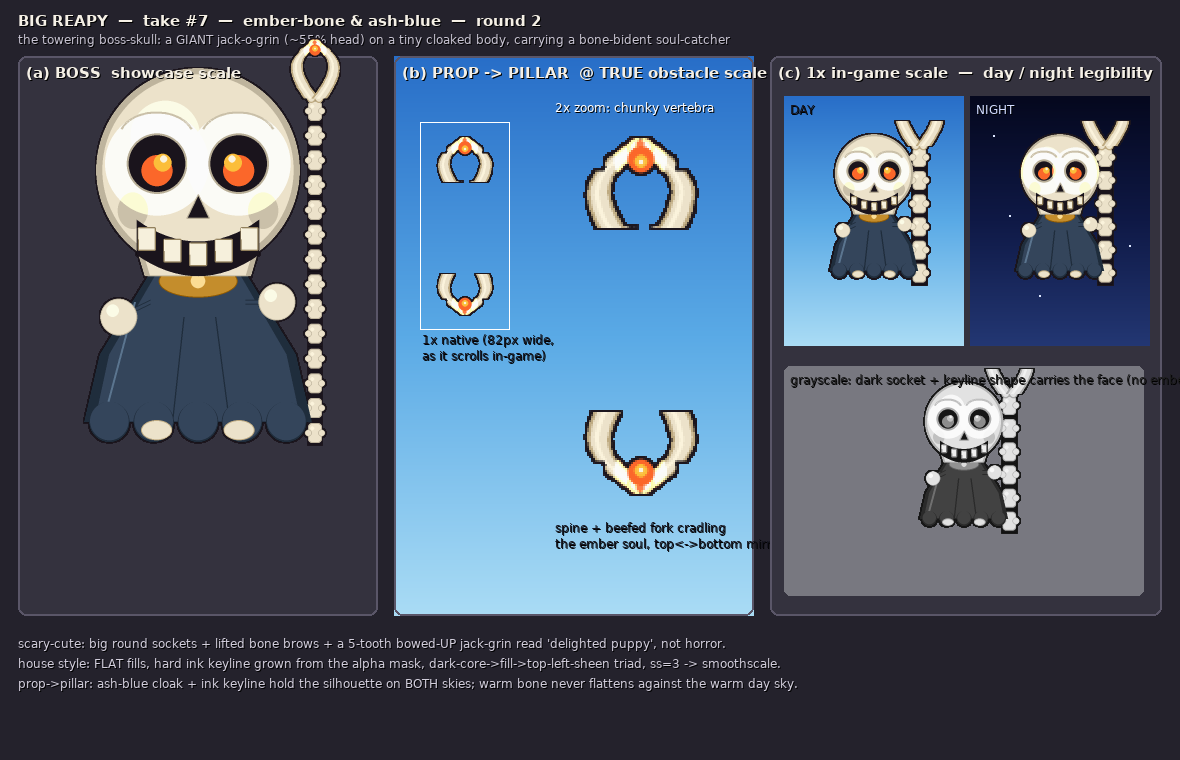
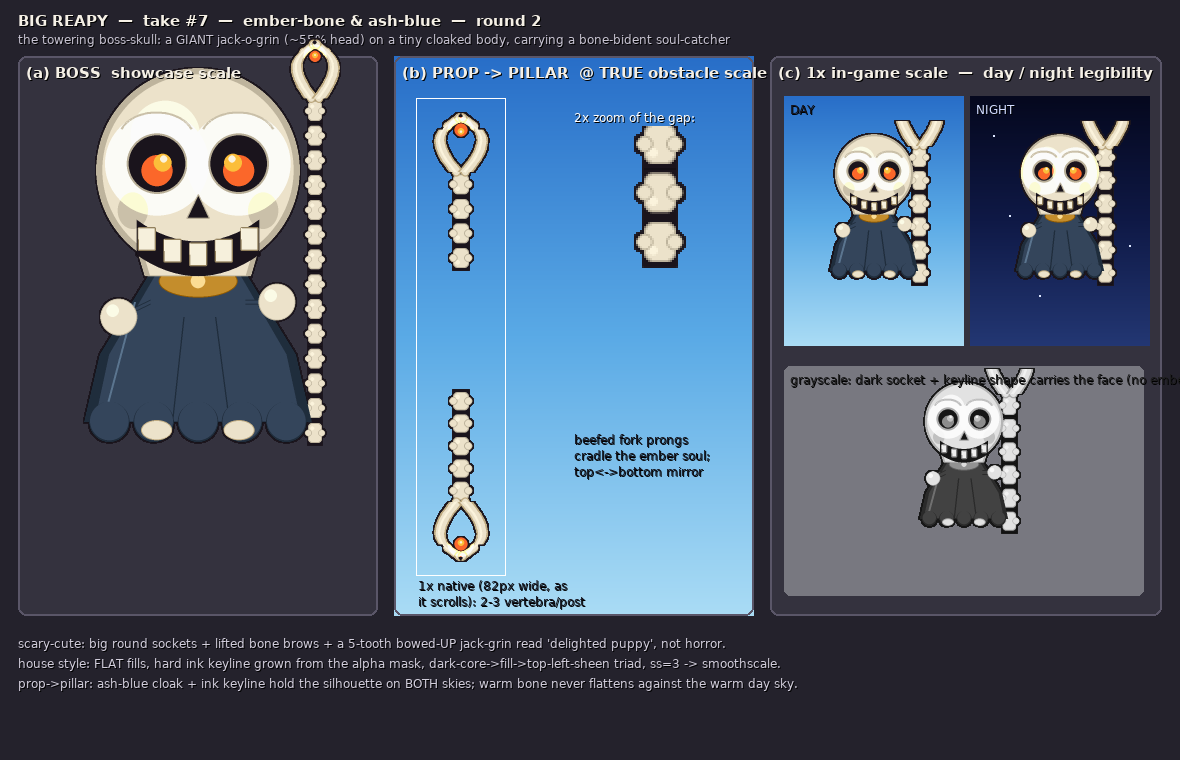
skybit-reaper: big-reapy + the-hollow round 2 sheets; dr-quill SHIP-READY r2 critique

diff --git a/tools/render_skybit_reaper_tick_tock.py b/tools/render_skybit_reaper_tick_tock.py
@@ -39,8 +39,10 @@ HOOD_FACE = (244, 236, 214)   # bone-cream skull-pale
 FRAME = (200, 144, 46)        # brass hourglass frame
 FRAME_DK = (140, 96, 26)
 FRAME_HI = (255, 228, 154)
-SAND = (255, 194, 61)         # amber sand
-SAND_HI = (255, 228, 154)
+# Amber sand pulled down a notch (was 255,194,61 / 255,228,154) so the hourglass
+# stops being the single brightest mass and the skull-pale FACE leads the read.
+SAND = (236, 170, 48)         # amber sand (deeper, less near-white-yellow)
+SAND_HI = (250, 206, 120)
 SASH = (214, 62, 90)          # rose sash
 SASH_DK = (150, 38, 60)
 GLASS = (180, 224, 232)       # faint cold glass tint
@@ -123,9 +125,11 @@ def _hourglass(surf, cx, cy, half_w, half_h, ss, *, sand_t=0.5, glow=True):
                          max(1, int(1.2 * ss)))
 
     # The thin falling-sand thread through the neck (the live beat), with a soft
-    # amber glow so it reads as luminous trickling time.
+    # amber glow so it reads as luminous trickling time. Glow pulled DOWN one more
+    # notch (was 66) so the bright amber mass stops out-shouting the FACE at 1x —
+    # the head is the focal point, the glass the supporting beat.
     if glow:
-        blit_glow(surf, int(cx), int(cy), max(3, int(half_w * 0.5)), SAND, alpha=66)
+        blit_glow(surf, int(cx), int(cy), max(3, int(half_w * 0.42)), SAND, alpha=40)
     pygame.draw.line(surf, SAND_HI, (int(cx), int(cy - half_h * 0.18)),
                      (int(cx), int(cy + half_h * 0.5)), max(1, int(1.4 * ss)))
 
@@ -184,37 +188,44 @@ def _smug_face(surf, cx, cy, hw, ss, *, look=-1):
         pr = max(1, int(hw * 0.10))
         pygame.draw.circle(surf, INK,
                            (int(exx + look * hw * 0.14), int(ey + hw * 0.02)), pr)
-        # The half-lid: a thick ink bar arcing across the top third of the eye.
+        # The half-lid: a STEEPER, heavier ink bar dragged further DOWN over the eye
+        # so only a knowing sliver survives — the menace lives in the lid, not the
+        # palette. Pushed down ~1px (ey-0.20 -> ey-0.14) and thickened (2.2 -> 2.8ss)
+        # so the slit reads as smug DEATH, not a neutral open eye, even at the 1x inset.
         pygame.draw.arc(surf, INK,
-                        (int(exx - hw * 0.34), int(ey - hw * 0.26),
+                        (int(exx - hw * 0.34), int(ey - hw * 0.14),
                          int(hw * 0.68), int(hw * 0.42)),
-                        math.pi * 0.05, math.pi * 0.95, max(2, int(2.2 * ss)))
-        # ONE arched eyebrow-ridge above — inner-low, outer raised: the "oh-really"
-        # arch that reads patient-condescending, never an angry inner-down V.
-        inner = (exx - s * hw * 0.10, ey - hw * 0.34)
-        mid = (exx + s * hw * 0.22, ey - hw * 0.46)
-        outer = (exx + s * hw * 0.42, ey - hw * 0.36)
-        pygame.draw.lines(surf, _shade_c(HOOD_FACE, -70), False,
+                        math.pi * 0.02, math.pi * 0.98, max(3, int(2.8 * ss)))
+        # ONE arched eyebrow-ridge above — inner-LOW, outer raised: the "oh-really"
+        # arch that reads patient-condescending. Inner end dragged down + closer to
+        # the lid so the brow/lid pinch reads as a steeper knowing squint, not a
+        # pleasant open arch.
+        inner = (exx - s * hw * 0.12, ey - hw * 0.28)
+        mid = (exx + s * hw * 0.20, ey - hw * 0.46)
+        outer = (exx + s * hw * 0.44, ey - hw * 0.38)
+        pygame.draw.lines(surf, _shade_c(HOOD_FACE, -78), False,
                           [(int(inner[0]), int(inner[1])), (int(mid[0]), int(mid[1])),
-                           (int(outer[0]), int(outer[1]))], max(2, int(1.8 * ss)))
+                           (int(outer[0]), int(outer[1]))], max(2, int(2.0 * ss)))
     # (No nose-bridge tick — it reads as noise at the 1x inset; the half-lids +
     #  smirk carry the smug clerk on their own.)
-    # The SMUG closed mouth: a flat line with the gaze-side corner cocked UP into a
-    # tiny dimple — the patient smirk. No teeth, no grimace.
+    # The SMUG closed mouth: a flat line with the gaze-side corner cocked sharply UP
+    # into a deepened dimple — the patient smirk. No teeth, no grimace. The cocked
+    # corner is pushed harder (0.10 -> 0.16 lift) so the asymmetry is unmistakably a
+    # knowing smirk, not a neutral smile, and survives the 1x shrink.
     my = cy + hw * 0.56
     mouth = []
     for k in range(11):
         t = k / 10.0
-        mx = cx - hw * 0.42 + hw * 0.84 * t
-        # Raise the left (gaze) corner; sag the right slightly for the lopsided read.
-        droop = (t - 0.5)
-        myy = my - hw * 0.10 * (1.0 - t) + hw * 0.06 * t
+        mx = cx - hw * 0.44 + hw * 0.86 * t
+        # Hard lift on the left (gaze) corner; let the right droop for the lopsided read.
+        myy = my - hw * 0.16 * (1.0 - t) ** 1.4 + hw * 0.07 * t
         mouth.append((int(mx), int(myy)))
-    pygame.draw.lines(surf, _shade_c(SASH, -30), False, mouth, max(2, int(2.0 * ss)))
-    # Dimple tick seating the raised corner so the asymmetry survives shrinking.
-    pygame.draw.line(surf, _shade_c(HOOD_FACE, -60),
-                     (int(cx - hw * 0.42), int(my - hw * 0.10)),
-                     (int(cx - hw * 0.50), int(my - hw * 0.24)), max(1, int(1.4 * ss)))
+    pygame.draw.lines(surf, _shade_c(SASH, -34), False, mouth, max(2, int(2.2 * ss)))
+    # Deepened dimple tick seating the raised corner so the cocked smirk survives
+    # shrinking — the gaze-side fold that sells the smug, clock-running-out read.
+    pygame.draw.line(surf, _shade_c(HOOD_FACE, -64),
+                     (int(cx - hw * 0.44), int(my - hw * 0.16)),
+                     (int(cx - hw * 0.54), int(my - hw * 0.34)), max(2, int(1.6 * ss)))
 
 
 def draw_tick_tock(surf, cx, feet_y, scale=1.0, ss=2):
@@ -295,9 +306,13 @@ def draw_tick_tock(surf, cx, feet_y, scale=1.0, ss=2):
     # Cradling arm (his right; viewer-right) — one CONTINUOUS sleeve springing from
     # the shoulder seam and sweeping out to clasp the pole (no detached floating
     # slab). Top edge starts at the shoulder; bottom edge curves under to the mitt.
+    # Inner edge runs as a smooth convex sweep from deep inside the shoulder mass
+    # out to the forearm — the prior inner-anchor notch cut a flat dark facet that
+    # read as a stuck-on tab at the elbow, so it is removed and the underside now
+    # springs cleanly from the shoulder.
     cradle = [(cx + sh_hw - U(2), shoulder_y + U(1)),       # shoulder seam (top)
-              (cx + sh_hw * 0.5, shoulder_y + U(7)),         # inner shoulder anchor
-              (cx + sh_hw * 0.7, shoulder_y + U(26)),        # inner underside
+              (cx + sh_hw * 0.78, shoulder_y + U(14)),       # inner shoulder (eased in)
+              (cx + sh_hw * 0.96, shoulder_y + U(30)),       # smooth elbow underside
               (staff_x - U(12), pole_top + U(50)),           # underside reaching pole
               (staff_x - U(1), pole_top + U(46)),            # at the pole (forearm)
               (staff_x - U(3), pole_top + U(36)),            # top of forearm
@@ -402,10 +417,12 @@ def draw_hourglass_pillar(surf, cx, gap_edge, far_edge, w, ss, *, flip):
 
     # The hourglass CAP at the gap edge — the silhouette bulge that owns the
     # gameplay read. Sand drains toward the gap so the live falling-sand reads. The
-    # half-width:half-height ratio is locked to the boss's staff glass (0.75) so the
-    # "one literal shape" prop->pillar mirror reads identical at a glance.
-    hg_hh = min(span * 0.32, 30 * ss)
-    hg_hw = hg_hh * 0.75
+    # glass half-WIDTH and the half-width:half-height ratio (0.75) are locked to the
+    # boss's staff glass so the "one literal shape" prop->pillar mirror reads
+    # IDENTICAL at a glance — the pier glass had been reading marginally wide, so the
+    # absolute half-width is now pinned to the boss value (25.5*ss at boss scale 1.7).
+    hg_hw = min(span * 0.32 * 0.75, 25.5 * ss)
+    hg_hh = hg_hw / 0.75
     hg_cy = gap_edge + sign * (hg_hh + 6 * ss)
     _hourglass(surf, cx, hg_cy, hg_hw, hg_hh, ss, sand_t=0.5)
 
@@ -475,7 +492,10 @@ def main():
     gap_top = int(th * 0.40)
     gap_bot = int(th * 0.60)
     col_x = tw // 2
-    post_w = max(4, int(7 * ss))
+    # Pole width pinned to the BOSS staff pole (U(3.2) at boss scale 1.7 = 5.44*ss,
+    # so half-width 5.44 -> full ~10.9*ss) so the pole:glass proportion matches the
+    # staff and the pier stops reading as a fat post under a small glass.
+    post_w = max(4, int(10.9 * ss))
     big_p = pygame.Surface((tw * ss, th * ss), pygame.SRCALPHA)
     # Top pier: hangs from the ceiling, hourglass eye flourishes DOWN into the gap.
     draw_hourglass_pillar(big_p, col_x * ss, gap_top * ss, 4 * ss, post_w, ss, flip=True)

diff --git a/tools/render_skybit_reaper_big_reapy.py b/tools/render_skybit_reaper_big_reapy.py
@@ -384,7 +384,7 @@ def _bone_fork(surf, cx, base_y, hw, ss, *, point_up=True):
     # prong tips (not low on the shaft). Tight, bright halo + a hot inner core so it
     # reads as one discrete glowing caught soul, not a smear of bone-bleed.
     tip_y = (tips[0][1] + tips[1][1]) * 0.5
-    wy = tip_y - d * prong_len * 0.10            # nestled just inside the tips
+    wy = tip_y - d * prong_len * 0.22            # nestled down inside the cradle
     soul_r = hw * 0.85
     glow = make_glow_surface(int(soul_r * 2.0), EMBER, alpha_center=230, falloff=2.4)
     surf.blit(glow, (int(cx - soul_r * 2.0 - 1), int(wy - soul_r * 2.0 - 1)),
@@ -516,13 +516,15 @@ def main():
     _label(sheet, font, "(b) PROP -> PILLAR  @ TRUE obstacle scale", panelB.x + 8, panelB.y + 8)
 
     pw = PIPE_W + 2 * OVERHANG                  # 82px — the real obstacle width
-    # True 1x gameplay slice: a 200px-tall window of the 640-tall canvas with a
-    # realistic ~150px gap, pillars at native pixel size.
-    slice_h = 200
-    slice_x = panelB.x + 30
-    slice_y = panelB.y + 70
-    gap_top = 56
-    gap_h = 92
+    # True 1x gameplay slice: a tall window of the 640-tall canvas with a realistic
+    # gap, pillars at native pixel size. The pillars are LONG enough that 2-3
+    # vertebra segments stack across each post — the spine read must survive at this
+    # exact size, not just in the zoom.
+    slice_h = 470
+    slice_x = panelB.x + 26
+    slice_y = panelB.y + 46
+    gap_top = 168
+    gap_h = 120
     top_h = gap_top
     bot_h = slice_h - gap_top - gap_h
     top_pillar = _bident_pillar_obstacle(top_h, 3, flip=True)
@@ -530,20 +532,23 @@ def main():
     sheet.blit(top_pillar, (slice_x - 2, slice_y - 2))
     sheet.blit(bot_pillar, (slice_x - 2, slice_y + gap_top + gap_h - 2))
     pygame.draw.rect(sheet, (255, 255, 255), (slice_x - 4, slice_y - 4, pw + 8, slice_h + 8), 1)
-    _label(sheet, small, "1x native (82px wide,", slice_x - 2, slice_y + slice_h + 6, (20, 20, 30))
-    _label(sheet, small, "as it scrolls in-game)", slice_x - 2, slice_y + slice_h + 22, (20, 20, 30))
+    _label(sheet, small, "1x native (82px wide, as", slice_x - 2, slice_y + slice_h + 6, (20, 20, 30))
+    _label(sheet, small, "it scrolls): 2-3 vertebra/post", slice_x - 2, slice_y + slice_h + 22, (20, 20, 30))
 
-    # 2x zoom of the gap region so the fork + banding detail is legible to review.
-    zoom_src = pygame.Surface((pw, slice_h), pygame.SRCALPHA)
-    zoom_src.blit(top_pillar, (-2, -2))
-    zoom_src.blit(bot_pillar, (-2, gap_top + gap_h - 2))
-    zoom = pygame.transform.scale(zoom_src, (pw * 2, slice_h * 2))
-    zx = panelB.x + 165
-    zy = panelB.y + 60
+    # 2x zoom of just the GAP region so the fork + banding detail is legible to
+    # review — the prongs cradling the ember soul, top<->bottom mirror.
+    zw, zh = pw, 150
+    zoom_src = pygame.Surface((zw, zh), pygame.SRCALPHA)
+    zoom_src.blit(top_pillar, (-2, -(gap_top - 70) - 2))
+    zoom_src.blit(bot_pillar, (-2, gap_h + 70 - 2))
+    zoom = pygame.transform.scale(zoom_src, (zw * 2, zh * 2))
+    zx = panelB.x + 184
+    zy = panelB.y + 70
     sheet.blit(zoom, (zx, zy))
-    _label(sheet, small, "2x zoom: chunky vertebra", zx - 4, zy - 16, (255, 255, 255))
-    _label(sheet, small, "spine + beefed fork cradling", zx - 4, zy + slice_h * 2 + 4, (20, 20, 30))
-    _label(sheet, small, "the ember soul, top<->bottom mirror", zx - 4, zy + slice_h * 2 + 20, (20, 20, 30))
+    _label(sheet, small, "2x zoom of the gap:", zx - 4, zy - 16, (255, 255, 255))
+    _label(sheet, small, "beefed fork prongs", zx - 4, zy + zh * 2 + 6, (20, 20, 30))
+    _label(sheet, small, "cradle the ember soul;", zx - 4, zy + zh * 2 + 22, (20, 20, 30))
+    _label(sheet, small, "top<->bottom mirror", zx - 4, zy + zh * 2 + 38, (20, 20, 30))
 
     # — Cell C: 1x in-game-scale INSET on BOTH day and night skies.
     panelC = pygame.Rect(770, 56, 392, 560)

diff --git a/docs/skybit_reaper/grim_sprout/critique_r2.md b/docs/skybit_reaper/grim_sprout/critique_r2.md
@@ -1,0 +1,73 @@
+# GRIM SPROUT — Art-Director critique, Round 2 (final)
+
+`VERDICT: SHIP-READY`
+
+Round 2 closes the two gaps that held round 1 back, and it does so without
+touching the one thing that was already solved. This clears the bar. Take the
+residual clip into the final GD pass as a 10-minute polish item, but it is NOT
+a blocker — ship-ready stands.
+
+---
+
+## What landed (compared to R1)
+
+- **Comedy-of-scale — FIXED, the headline win.** Standing the snath near-vertical
+  and stacking the blade TALL above the imp is exactly the correction. In the
+  showcase the scythe now reads as a genuine 4–5× great-scythe dwarfing a roly-poly
+  baby — the "tiny terror, huge blade" gag is instant and unmistakable, and
+  critically it now survives the 1× DAY and NIGHT cells. In R1 the blade was a
+  delicate ~1.3× hook leaning across the body; that "generic small reaper" risk is
+  gone. This is the single most important read of the concept and it now works.
+- **Blade legibility on day sky — FIXED.** The darkened spine + thicker ink keyline
+  + mint under-rim do the job: in the B/W cell the crescent holds as a clearly
+  separated dark-edged shape, and on the DAY inset it no longer dissolves into the
+  light sky bottom. The load-bearing edge is now actually load-bearing.
+- **Scary-cute face survives to 1× — FIXED.** The B/W cell confirms it: the dark
+  eye-cavity + socket pair + the one oversized offset fang carry a readable FACE in
+  grayscale, not two gold pinpricks that vanish. The asymmetric upward-tilted eyes
+  land "cheeky baby" rather than "grim frown." The accessibility note (dark socket
+  shape, not gold hue, carries the read) is satisfied.
+- **Prop→pillar system — KEPT INTACT.** This is the thing I most worried the pose
+  change would break. It didn't: (b)/(b') still show the snath as a clean banded
+  vertical post, blade detaching to the gap-edge only, top/bottom mirroring as one
+  matched obstacle, mid-strip tiling with no blade bleed. The pose work was done
+  without disturbing the already-solved tiling. Good discipline.
+- **House-style fidelity — KEPT.** Flat fills, ink keyline + outline pop, saturated
+  orchid-violet/mint, triad sheen. Zero drift back toward the grim/desaturated
+  finish. The differentiated mitts now give the "hauling something 5× my size"
+  body language R1 lacked.
+- **Distinctness — KEPT.** No collision with Big Reapy (giant skull), Dr. Quill
+  (plague-bird), Tick-Tock (hourglass clerk), or The Hollow (void-shroud). The
+  baby-imp-under-a-monster-scythe silhouette is unique in the set, and the
+  scale-up sharpened rather than blurred that identity.
+
+---
+
+## Residual (the GD's flag) — confirmed minor, fix in final pass
+
+The high-grip fist sitting close to the face and the snath clipping the
+lower-right of the face crescent IS visible in the showcase, and it's the only
+blemish I'd touch. It reads as a small "is the pole going through his cheek?"
+ambiguity on close inspection. It does NOT hurt the 1× read (it disappears at
+gameplay scale), so it does not gate ship-ready — but since the GD gets one more
+pass, spend it here.
+
+---
+
+## Final-round directives (priority order, all polish — none gate ship)
+
+1. **Resolve the snath/face-crescent clip.** Nudge the snath 2–4px right (or the
+   imp 2–4px left) so the pole runs cleanly BESIDE the head silhouette instead of
+   kissing the lower-right of the face crescent. The "held beside the head" read
+   is the goal; right now it ambiguously overlaps. This is the one must-do.
+2. **Give the high grip a hair more breathing room from the face.** Either drop the
+   fist ~3px down the snath or shrink it slightly so it doesn't crowd the cheek.
+   Reinforces #1 and makes the upper-grip mitt read as "fist on pole," not "fist on
+   face."
+3. **(Optional, if time) Confirm the hood/head-top still reads.** With the body
+   shrunk, double-check the hood droop-curl + mint pom hasn't merged into a
+   featureless blob at 1×; a touch more value separation at the hood seam would
+   help, but it's currently acceptable.
+
+No other changes. Do not re-tune scale, palette, blade, or the pillar cells —
+they're locked. This is a single clean-up pass, then it's done.

diff --git a/docs/skybit_reaper/the_hollow/critique_r2.md b/docs/skybit_reaper/the_hollow/critique_r2.md
@@ -1,0 +1,45 @@
+# THE HOLLOW — round 2 critique (art director)
+
+VERDICT: SHIP-READY
+
+Round 2 cleared every gate from R1. The night-sky legibility fix is the headline
+win: the lifted shroud (58,49,100) plus the new interior cool-violet separation
+rim (132,120,205) makes the figure pop off the dark 1x NIGHT inset on its own —
+the silhouette no longer depends on the ink outline, which was the brief's #1
+risk and the seed's killing flaw. The squat is real (W184 > H160, lowered
+shoulders, cowl lean + dropped shoulder): it now reads as an unmistakable
+big-hood chibi BELL, not a tall generic reaper, and it's clearly distinct from
+Grim Sprout / Big Reapy / Dr. Quill / Tick-Tock. The fattened snuffer-pole reads
+as a genuine obstacle, the enlarged bell + soul-flame register at the gap edge,
+and the 3-value triad sheen gives the form real dimension while staying FLAT and
+saturated. Zero drift back to the soft/desaturated void. This ships.
+
+## Strongest / weakest
+
+STRONGEST — the night-sky separation rim. This single move converts the figure
+from "half-lost on dark sky" to "self-supporting silhouette." It's the identity
+of this take working at gameplay scale. KEEP exactly as tuned.
+
+ALSO STRONG — the squat bell proportion + lowered, dropped-shoulder lean; the
+flat-black star-void hood with cyan pinprick eyes (still the charm); the hard
+scalloped bone hem; the fattened pole that finally reads as a real pillar post.
+
+WEAKEST (polish-only, not blocking) — the soul-flame on the pole top now glows
+large enough that on the night pillar inset the cyan-eye / pink-flame pairing is
+the only thing carrying the gap cap; the brass rail bands on the pillar are a
+touch close in value to the bone shaft on the darkest part of the gradient.
+
+## Optional final-round polish (none are blockers — ship as-is is acceptable)
+
+1. PILLAR BAND CONTRAST. On the lower (dark) portion of the night pillar, nudge
+   the brass rail bands ~1 value brighter so the repeatable mid-banding stays
+   crisp where the sky gradient is darkest. Minor.
+2. EYE/RIM HARMONY. The cyan eyes and the violet separation rim sit close in hue
+   family on the night inset; consider holding the eyes a hair brighter/cooler so
+   the two cyan pinpricks remain the clear focal point over the rim. Optional.
+3. FLAME RESTRAINT. The soul-flame glow is now ideal at the gap cap; resist
+   growing it further next pass — any more bloom and it starts to feather, which
+   would drift toward the seed's soft look. Hold the line where it is.
+
+If the GD touches nothing but items 1-2, great; if it ships the R2 render as-is,
+that is also fine. The bar is met.
